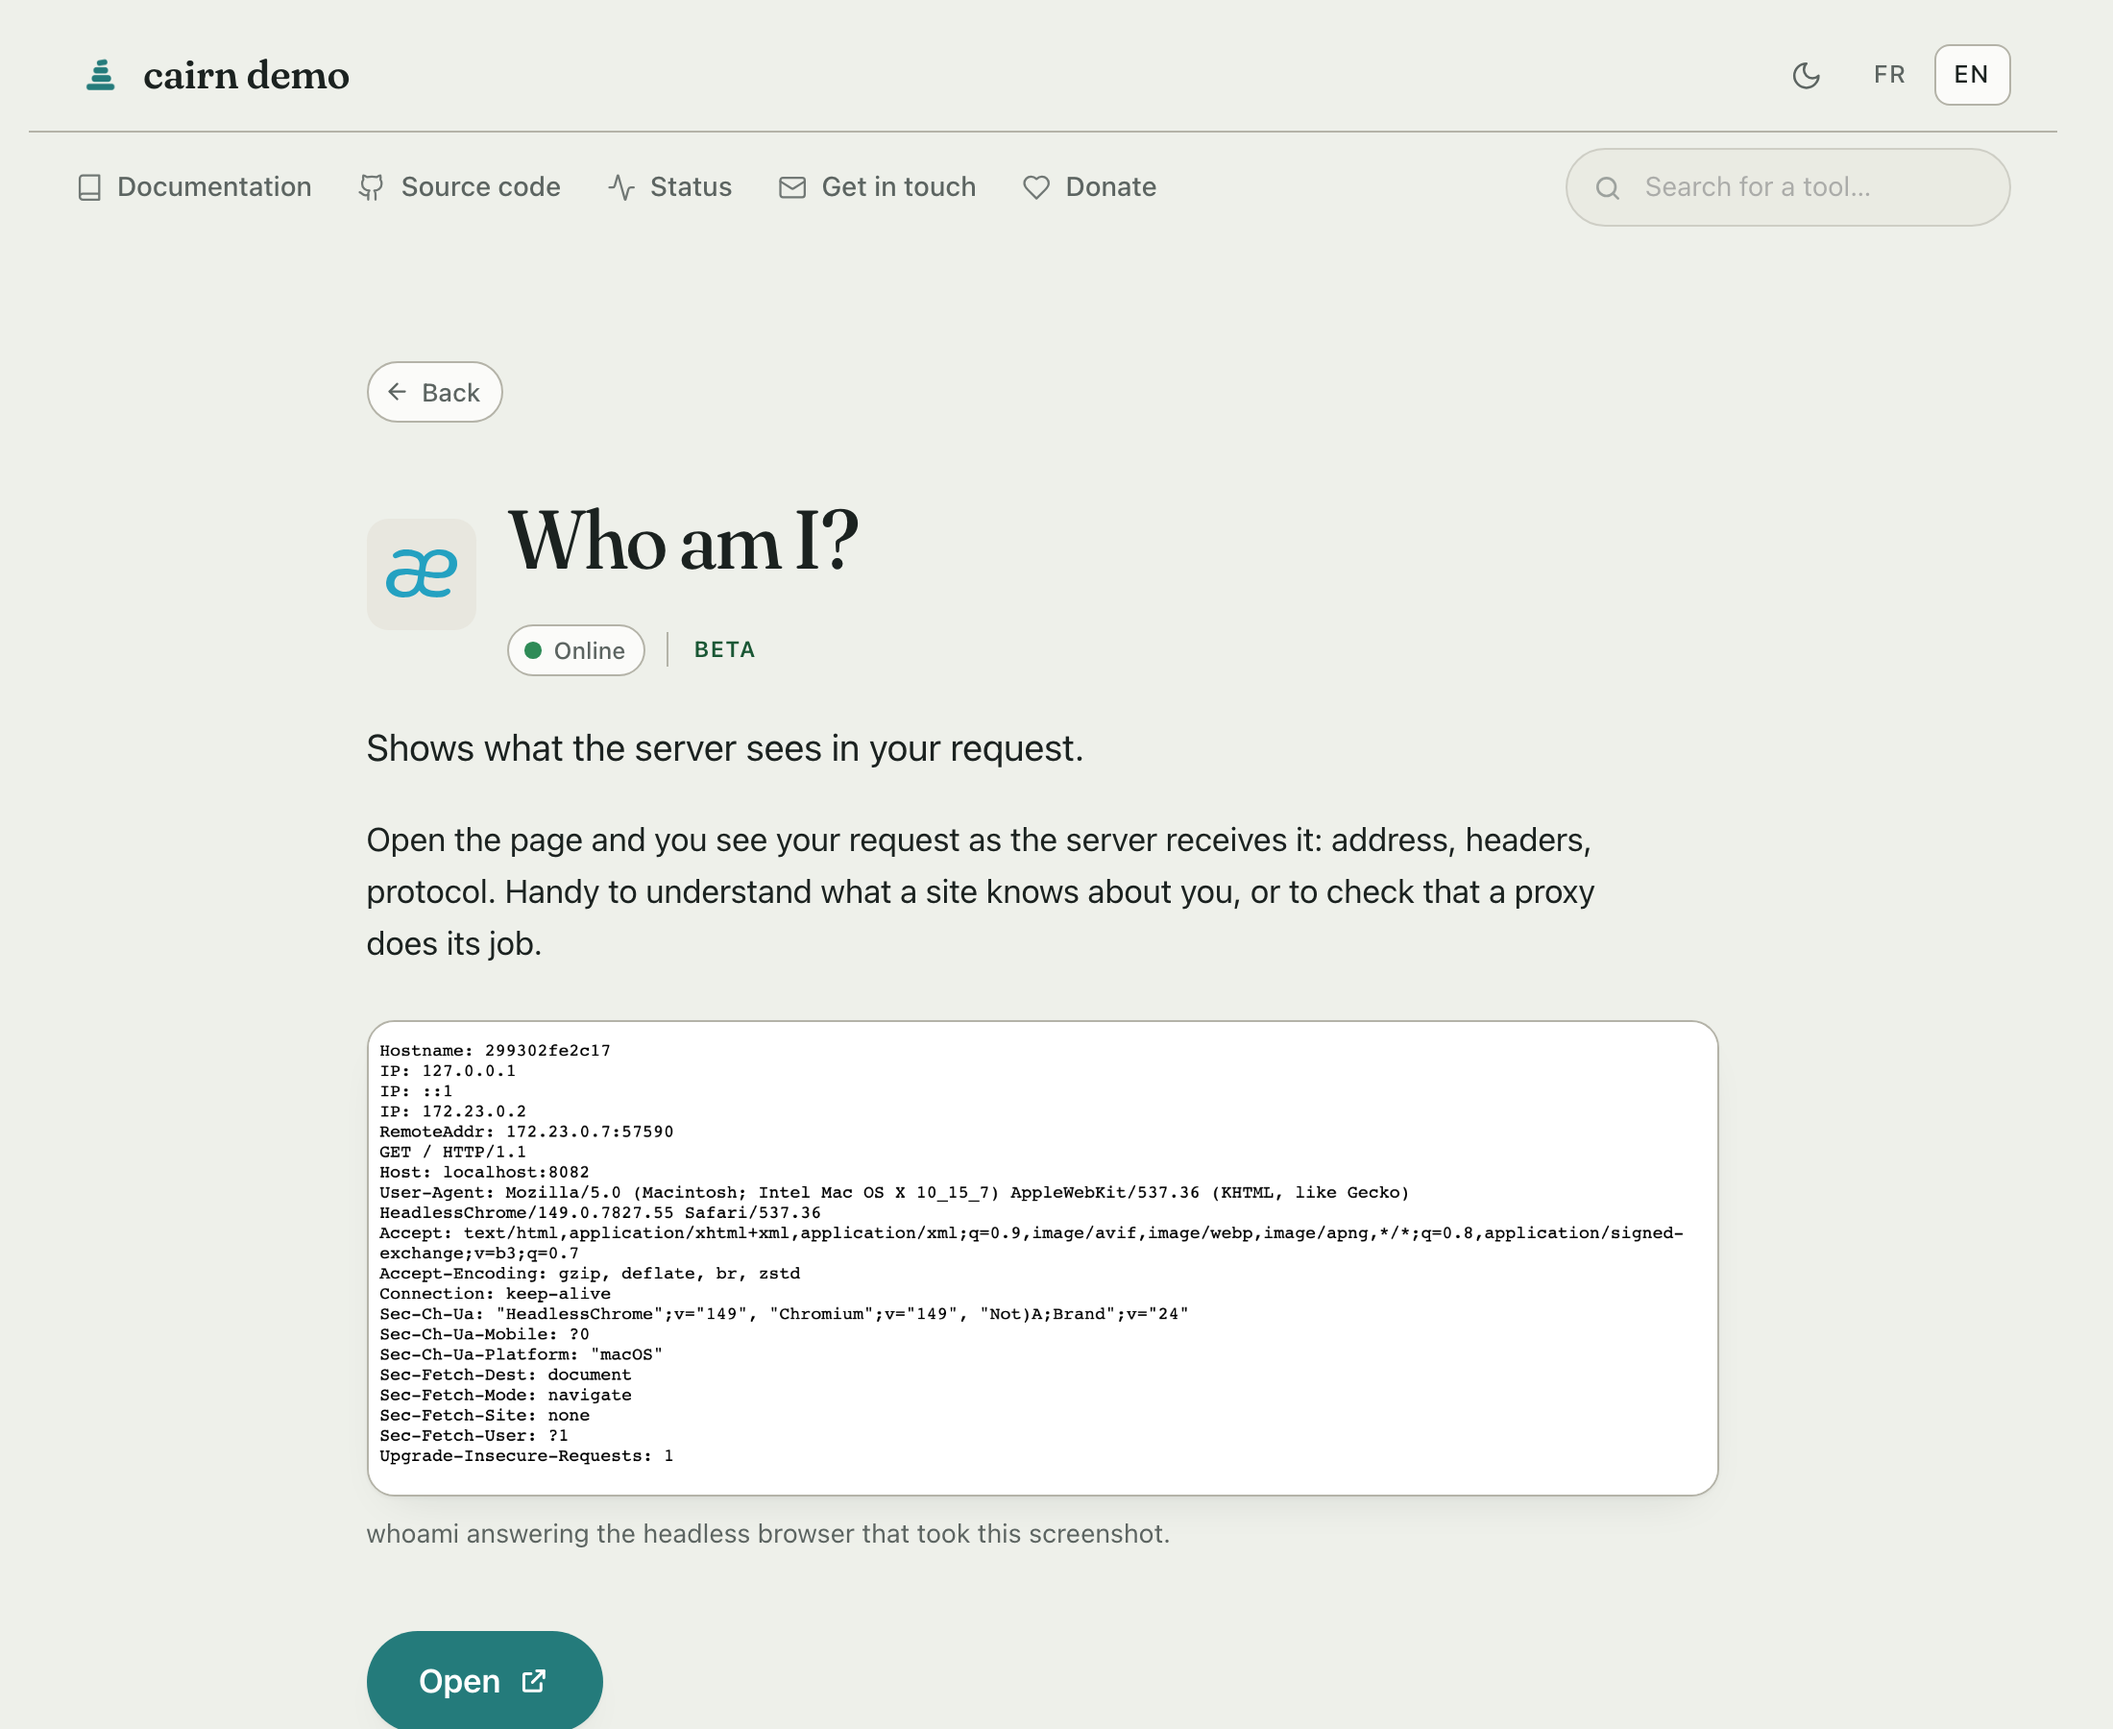
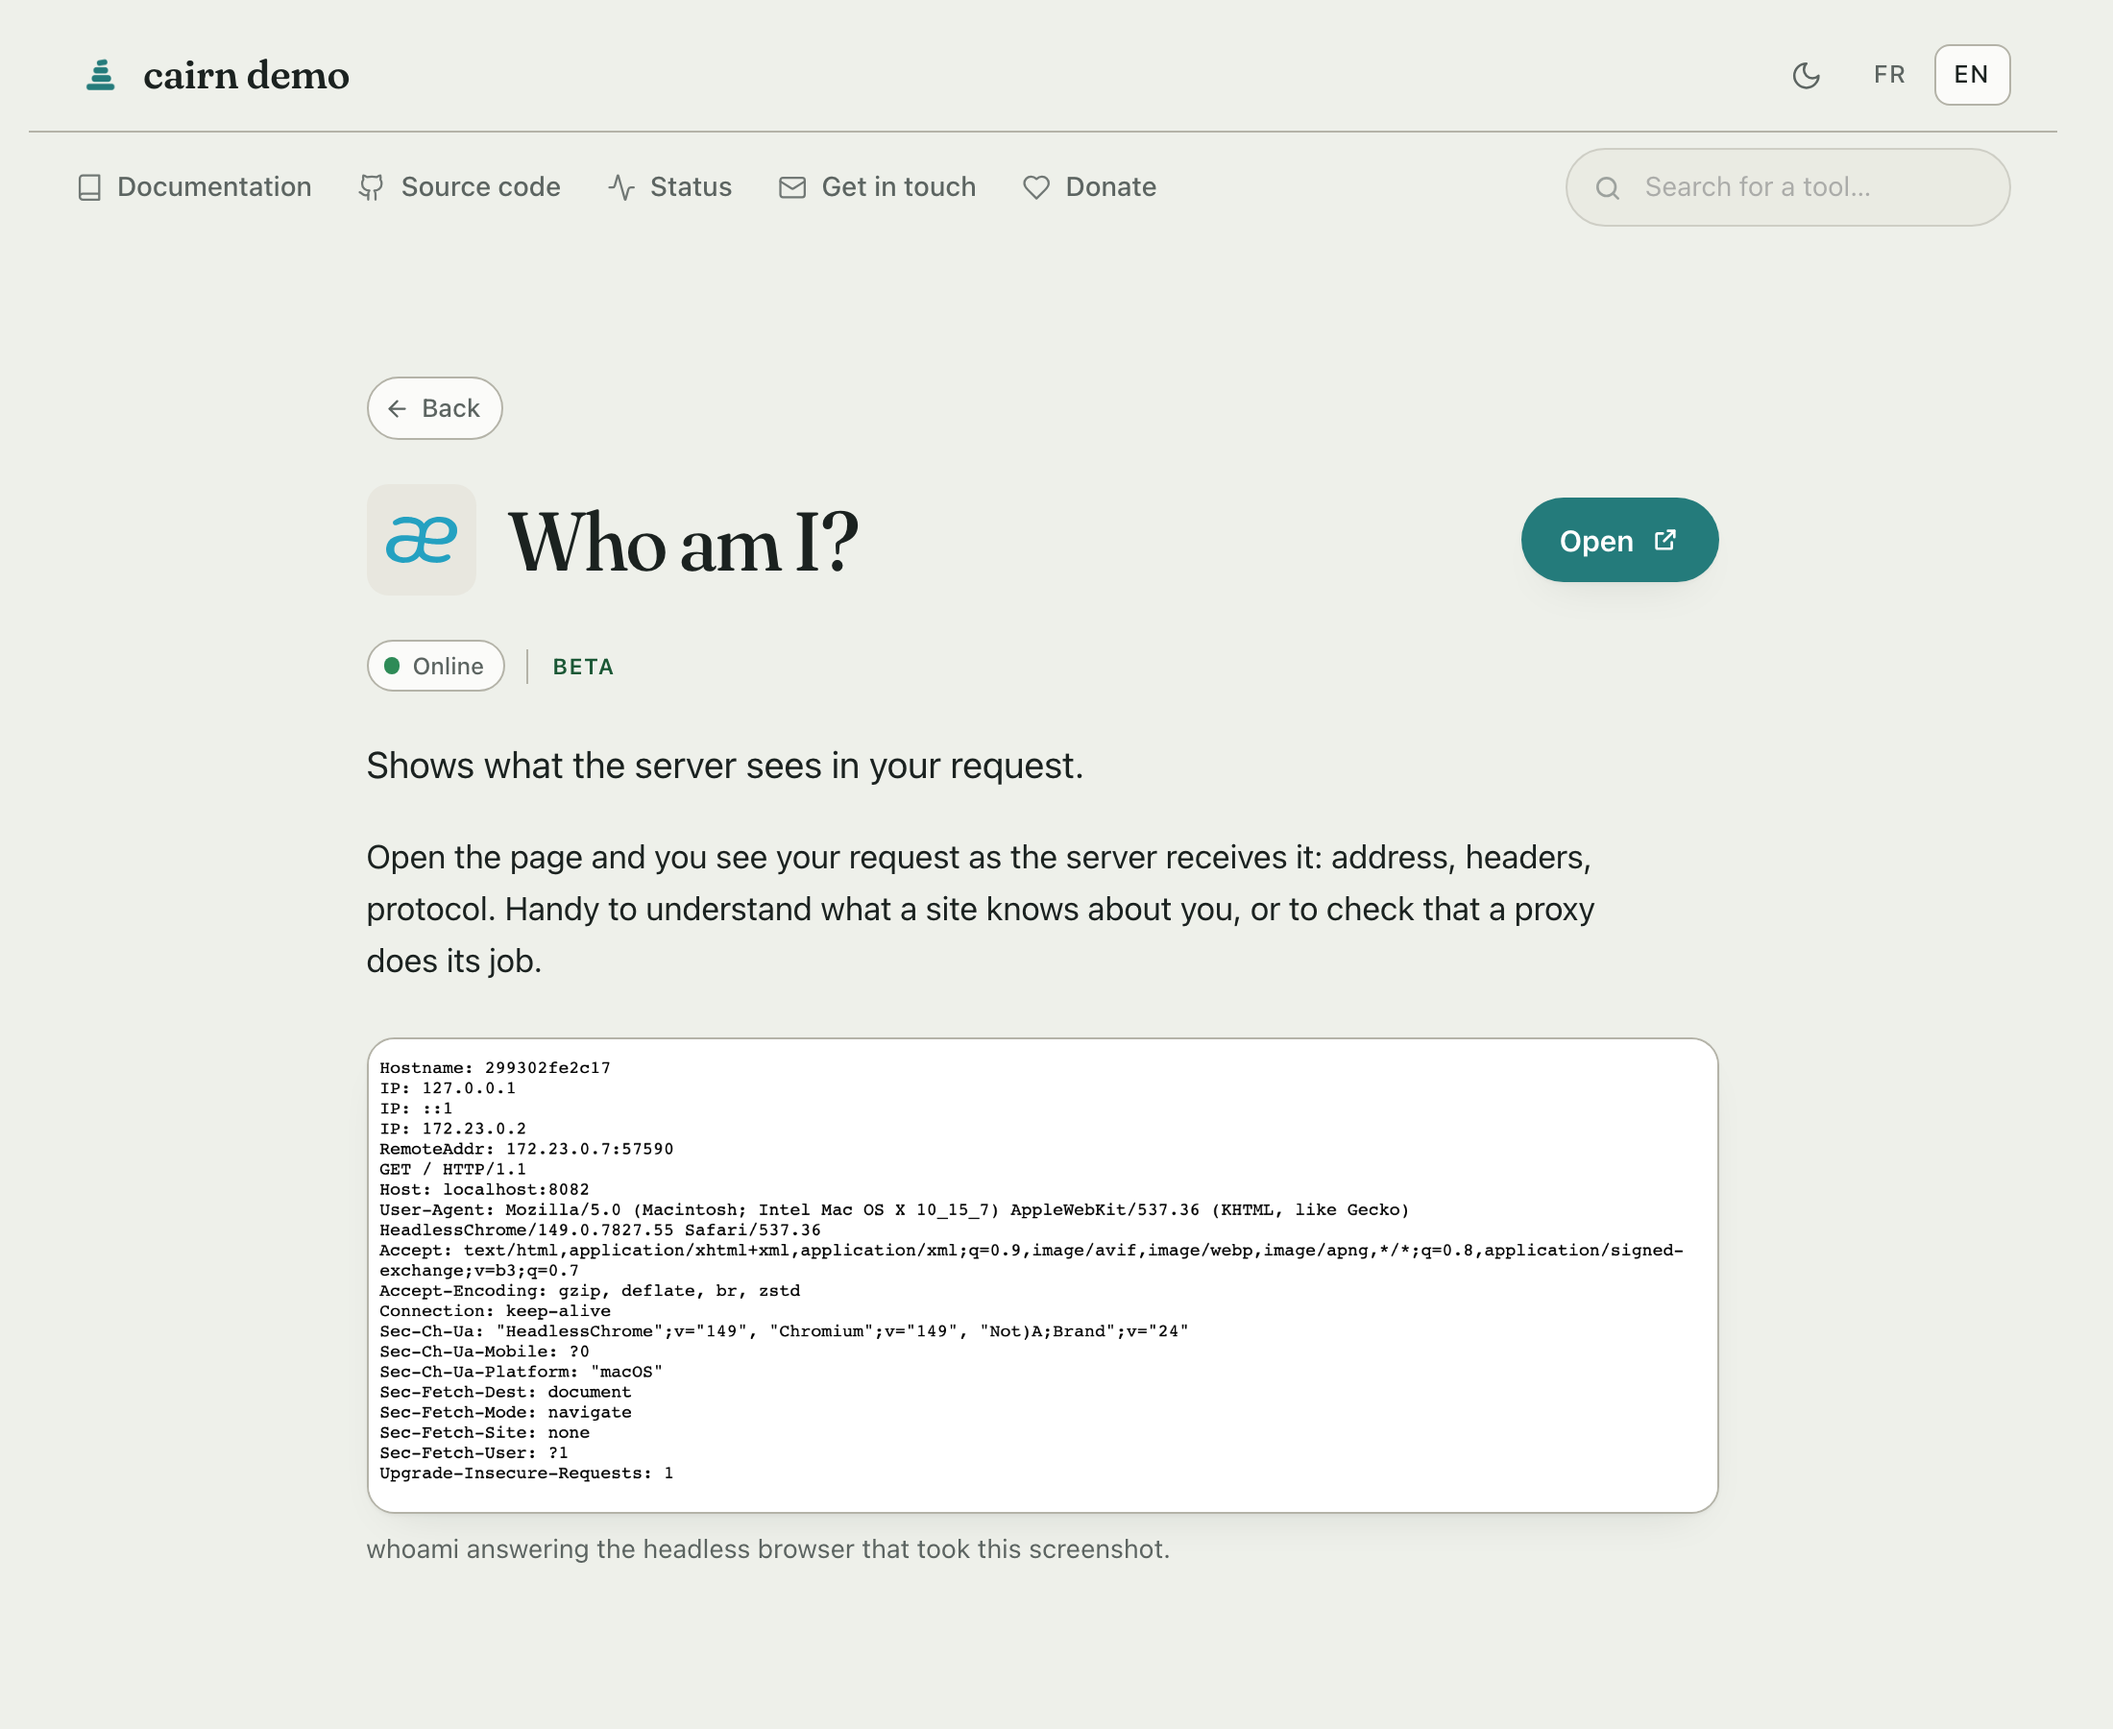
Bump to 1.20.1 (#107)
Two changes to the detail page since 1.20.0, both of them visible: one hover
rule for every outlined control, and a head that reads like a store listing.

Compared against v1.20.0 config by config, both binaries stamped 1.20.1: 244
responses identical, and the rest read line by line. On a detail page the whole
diff is the stylesheet's digest, the back link leaving its paragraph for the
grid, .detail-head becoming .detail-top, the title wrapper going, and the
action moving from the foot of the article to the head. The font, the icon and
the touch icon are byte for byte.

`just shots` moved detail.png and two-views.png, which is the head. The
README's alt text described the old reading order, with the button after the
screenshot rather than beside the name.

diff --git a/docs/deployment/airgap.md b/docs/deployment/airgap.md
@@ -14,7 +14,7 @@ page renders, and the icons are simply missing.
 
 | Artifact             | Size     | Where it comes from                                            |
 | -------------------- | -------- | -------------------------------------------------------------- |
-| `cairn-1.20.0.tgz`   | 4 KB     | `helm pull`, the signed artifact rather than the folder in git |
+| `cairn-1.20.1.tgz`   | 4 KB     | `helm pull`, the signed artifact rather than the folder in git |
 | `gatus-1.5.0.tgz`    | 9 KB     | the Gatus project's own chart                                  |
 | `images.tar`         | 26 MB    | `docker save` of cairn and Gatus                               |
 | `assets/icons/*.svg` | a few KB | what `cairn -emit-icons` downloads                             |
@@ -32,7 +32,7 @@ Everything in this section can be done by hand, and the rest of it shows how.
 If you have cairn checked out, two of the steps are a recipe:
 
 ```sh
-just save 1.20.0 linux/amd64   # the platform of the cluster, not of your laptop
+just save 1.20.1 linux/amd64   # the platform of the cluster, not of your laptop
 ```
 
 That pulls cairn's image for that one platform, saves it to `dist/`, pulls the
@@ -50,14 +50,14 @@ The order matters. `cosign verify` queries the public transparency log, so it is
 not something you get to do on the other side.
 
 ```sh
-helm pull oci://ghcr.io/morgankryze/charts/cairn --version 1.20.0
+helm pull oci://ghcr.io/morgankryze/charts/cairn --version 1.20.1
 
-cosign verify ghcr.io/morgankryze/charts/cairn:1.20.0 \
+cosign verify ghcr.io/morgankryze/charts/cairn:1.20.1 \
   --certificate-identity-regexp '^https://github.com/MorganKryze/cairn/' \
   --certificate-oidc-issuer https://token.actions.githubusercontent.com
 ```
 
-The same two lines for `morgankryze/cairn:1.20.0`, the image. Keep the
+The same two lines for `morgankryze/cairn:1.20.1`, the image. Keep the
 output: this is the only moment where you can prove where these bytes came from.
 
 Gatus publishes its own chart, from a classic repository rather than a registry,
@@ -82,7 +82,7 @@ amd64 cluster from an arm64 laptop is the classic way to learn this at
 ```sh
 PLATFORM=linux/amd64
 
-docker pull --platform $PLATFORM morgankryze/cairn:1.20.0
+docker pull --platform $PLATFORM morgankryze/cairn:1.20.1
 docker pull --platform $PLATFORM ghcr.io/twin/gatus:v5.36.0
 ```
 
@@ -93,9 +93,9 @@ names nothing you can reason about six months later. To be exact, v5.36.0 is
 Then give both the name they will carry inside, and save them together:
 
 ```sh
-docker tag morgankryze/cairn:1.20.0 harbor.internal/cairn:1.20.0
+docker tag morgankryze/cairn:1.20.1 harbor.internal/cairn:1.20.1
 docker tag ghcr.io/twin/gatus:v5.36.0 harbor.internal/gatus:5.36.0
-docker save harbor.internal/cairn:1.20.0 harbor.internal/gatus:5.36.0 -o images.tar
+docker save harbor.internal/cairn:1.20.1 harbor.internal/gatus:5.36.0 -o images.tar
 ```
 
 Retag even if you have no registry. An image named after a host that resolves
@@ -107,7 +107,7 @@ to have a route after all: the mistake becomes loud instead of invisible.
 This is the step nothing downstream will remind you about.
 
 ```sh
-docker run --rm -v ./config:/config morgankryze/cairn:1.20.0 -emit-icons > get-icons.sh
+docker run --rm -v ./config:/config morgankryze/cairn:1.20.1 -emit-icons > get-icons.sh
 mkdir -p assets && (cd assets && sh ../get-icons.sh)
 ```
 
@@ -119,7 +119,7 @@ bring the files. See [Icons](../recipes/icons.md).
 ### The Gatus endpoints
 
 ```sh
-docker run --rm -v ./config:/config morgankryze/cairn:1.20.0 -emit-gatus > gatus-endpoints.yaml
+docker run --rm -v ./config:/config morgankryze/cairn:1.20.1 -emit-gatus > gatus-endpoints.yaml
 ```
 
 One endpoint per service, named after its id, which is how each pill finds its
@@ -129,7 +129,7 @@ service. More in [Status page](../recipes/status.md).
 
 ```sh
 docker run --rm -v ./config:/config:ro -v ./assets:/assets:ro \
-  morgankryze/cairn:1.20.0 -check
+  morgankryze/cairn:1.20.1 -check
 ```
 
 **Mount both directories.** Given only `/config`, `-check` cannot see the icons
@@ -160,7 +160,7 @@ the far side of the gap there is no fixing a broken image with a download.
 
 ```sh
 docker load -i images.tar
-docker push harbor.internal/cairn:1.20.0
+docker push harbor.internal/cairn:1.20.1
 docker push harbor.internal/gatus:5.36.0
 ```
 
@@ -170,7 +170,7 @@ Harbor, Zot or `registry:2` you already run. The chart wants one value.
 ```yaml
 image:
   repository: harbor.internal/cairn
-  tag: "1.20.0"
+  tag: "1.20.1"
 # Only if the project is private. The Secrets have to exist in the namespace
 # already; the chart names them, it does not create them.
 imagePullSecrets:
@@ -182,7 +182,7 @@ OCI artifacts, so a project named `helm` holds them next to the images and
 nothing else has to be installed:
 
 ```sh
-helm push cairn-1.20.0.tgz oci://harbor.internal/helm
+helm push cairn-1.20.1.tgz oci://harbor.internal/helm
 helm push gatus-1.5.0.tgz oci://harbor.internal/helm
 ```
 
@@ -217,7 +217,7 @@ it worked:
 
 ```console
 $ kubectl get events --field-selector reason=Pulled
-Container image "harbor.internal/cairn:1.20.0" already present on machine
+Container image "harbor.internal/cairn:1.20.1" already present on machine
 Container image "harbor.internal/gatus:5.36.0" already present on machine
 ```
 
@@ -241,7 +241,7 @@ under `binaryData` on its own.
 # values.yaml
 image:
   repository: harbor.internal/cairn
-  tag: "1.20.0"
+  tag: "1.20.1"
 
 config:
   site.yaml: |
@@ -290,7 +290,7 @@ and one version to name, which is also what Argo CD will read:
 
 ```sh
 helm registry login harbor.internal --ca-file /etc/pki/internal-ca.crt
-helm install cairn oci://harbor.internal/helm/cairn --version 1.20.0 \
+helm install cairn oci://harbor.internal/helm/cairn --version 1.20.1 \
   --ca-file /etc/pki/internal-ca.crt -f values.yaml
 ```
 
@@ -307,7 +307,7 @@ credential store: a `docker login` already done on that host does not count.
 Without a registry, install what you carried:
 
 ```sh
-helm install cairn ./cairn-1.20.0.tgz -f values.yaml
+helm install cairn ./cairn-1.20.1.tgz -f values.yaml
 ```
 
 `linked: false` is a decision rather than an omission. Without it the pills link
@@ -647,7 +647,7 @@ no shell, no busybox, nothing to attach to. What you need is in the logs, on
 The same crossing, then:
 
 ```sh
-helm upgrade cairn oci://harbor.internal/helm/cairn --version 1.20.0 -f values.yaml
+helm upgrade cairn oci://harbor.internal/helm/cairn --version 1.20.1 -f values.yaml
 ```
 
 Always pass your full values file. As soon as one `-f` is present, Helm stops

diff --git a/docs/deployment/helm.md b/docs/deployment/helm.md
@@ -26,8 +26,8 @@ kubectl port-forward svc/cairn 8080:80
 
 Add `--version` with the number from the
 [releases](https://github.com/MorganKryze/cairn/releases) to pin. Chart version
-and cairn version are the same number, always: chart `1.20.0` installs cairn
-`1.20.0`, so there is only ever one version to talk about, and `image.tag` is
+and cairn version are the same number, always: chart `1.20.1` installs cairn
+`1.20.1`, so there is only ever one version to talk about, and `image.tag` is
 there if you ever want to break the pair apart.
 
 ## Seeing it filled first
@@ -229,8 +229,8 @@ OCI artifact, so it can be mirrored into whatever registry you already keep, and
 driven from there:
 
 ```sh
-helm pull oci://ghcr.io/morgankryze/charts/cairn --version 1.20.0
-helm push cairn-1.20.0.tgz oci://harbor.internal/helm
+helm pull oci://ghcr.io/morgankryze/charts/cairn --version 1.20.1
+helm push cairn-1.20.1.tgz oci://harbor.internal/helm
 ```
 
 Argo CD needs the repository declared before an Application can name it. Note
@@ -266,7 +266,7 @@ spec:
   source:
     repoURL: harbor.internal/helm
     chart: cairn
-    targetRevision: 1.20.0
+    targetRevision: 1.20.1
     helm:
       valuesObject:
         ingress:
@@ -290,7 +290,7 @@ spec:
   sources:
     - repoURL: harbor.internal/helm
       chart: cairn
-      targetRevision: 1.20.0
+      targetRevision: 1.20.1
       helm:
         valueFiles:
           - $values/cairn/values.yaml
@@ -317,7 +317,7 @@ The chart is signed the same way the image is, keylessly, bound to the workflow
 that published it:
 
 ```sh
-cosign verify ghcr.io/morgankryze/charts/cairn:1.20.0 \
+cosign verify ghcr.io/morgankryze/charts/cairn:1.20.1 \
   --certificate-identity-regexp '^https://github.com/MorganKryze/cairn/' \
   --certificate-oidc-issuer https://token.actions.githubusercontent.com
 ```

diff --git a/README.md b/README.md
@@ -79,7 +79,7 @@ account or a manual, and boring for you to operate.
 
 <div align="center">
 
-<a href="https://cairn.libresoftware.cloud" title="Open the live demo"><img src="docs/assets/two-views.png" alt="Left: a service detail page, with the name, a live status pill, a paragraph explaining what the tool is for, a screenshot with its caption and a button opening the tool. Right: the same directory on a phone, category chips then cards each showing an icon, a sentence, a self-hosted flag and a status pill" width="100%"></a>
+<a href="https://cairn.libresoftware.cloud" title="Open the live demo"><img src="docs/assets/two-views.png" alt="Left: a service detail page, with the name beside its icon and a button opening the tool at the far end of the same row, then a live status pill, a paragraph explaining what the tool is for, and a screenshot with its caption. Right: the same directory on a phone, a row of category chips then cards each showing an icon, a sentence, a self-hosted flag and a status pill" width="100%"></a>
 
 <em>Behind a card when a visitor wants more than one sentence, and the same page in a hand.</em>
 

diff --git a/docs/upgrading.md b/docs/upgrading.md
@@ -10,7 +10,7 @@ The new image validates your existing config without touching anything you are
 running. Do this first, every time:
 
 ```sh
-docker run --rm -v ./config:/config morgankryze/cairn:1.20.0 -check
+docker run --rm -v ./config:/config morgankryze/cairn:1.20.1 -check
 ```
 
 Exit code 0 means the upgrade will load. Exit 1 prints the exact message and
